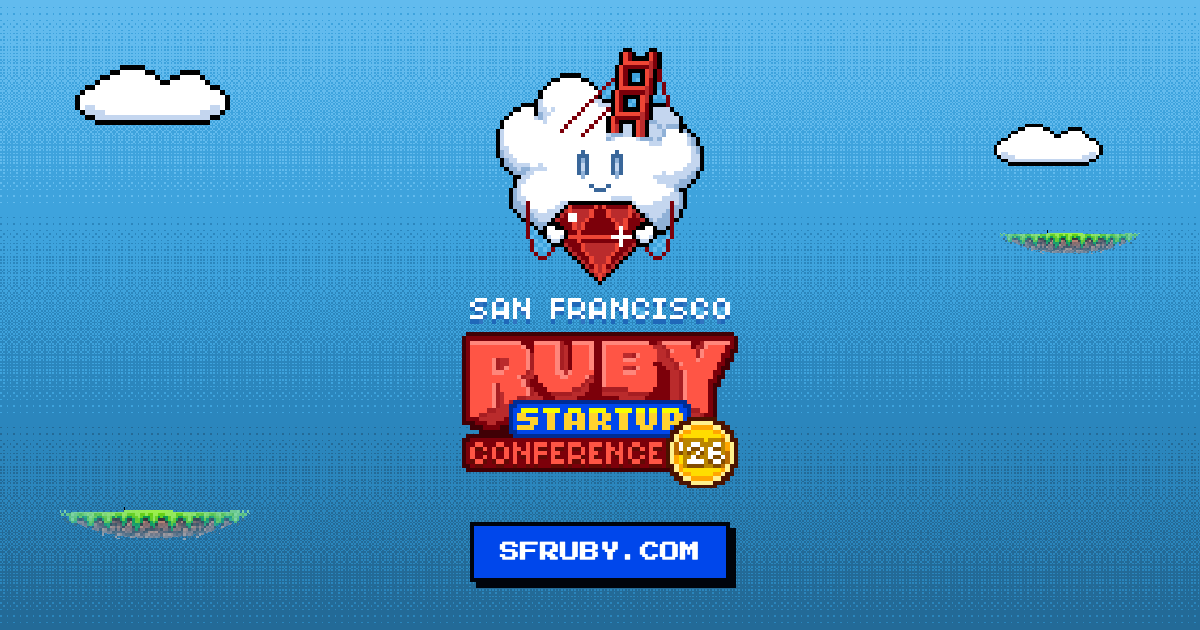
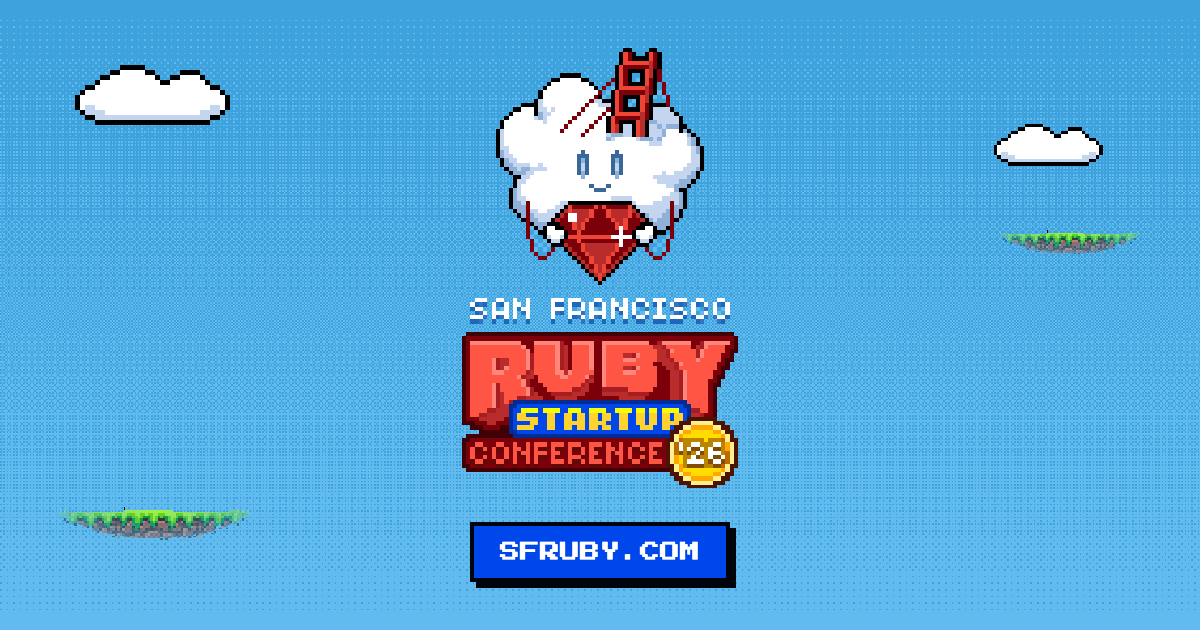
design: soften deep and dusk skies toward Anton's flatness
- deep (homepage): Anton-flat light blues for most of the hero, then a
  late descent into the news navy; the masthead handoff at indigo-900
  is unchanged
- dusk (interior heroes): calm two-stop dark sky (sky-800 into
  sky-700), lighter toward the ground like the logo, still dark enough
  for white text everywhere
- pixel.css fallback background-colors follow the new midpoints
- home/conference/sponsor OG cards re-rendered with the softened day
  sky

diff --git a/src/styles/pixel.css b/src/styles/pixel.css
@@ -68,14 +68,14 @@
     image-rendering: pixelated;
 }
 .px-sky-grad-deep {
-    background-color: #236a97;
+    background-color: #3ea3dd;
     background-image: url("/px-sky-deep.png");
     background-size: auto 100%;
     background-repeat: repeat-x;
     image-rendering: pixelated;
 }
 .px-sky-grad-dusk {
-    background-color: #123a57;
+    background-color: #1d5378;
     background-image: url("/px-sky-dusk.png");
     background-size: auto 100%;
     background-repeat: repeat-x;
